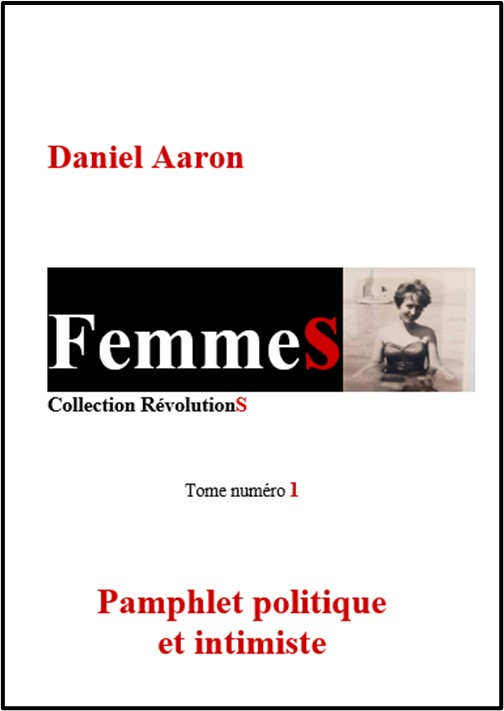
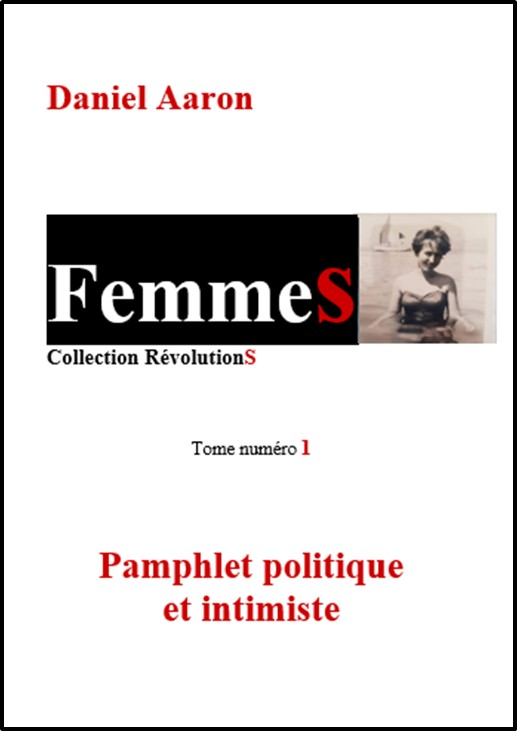
Livres

diff --git a/style.css b/style.css
@@ -365,7 +365,7 @@ h5 {
     flex-direction: row;
     justify-content: center;
     align-items: center;
-    padding-top: 300px;
+    padding-top: 360px;
     padding-bottom: 220px;
     /* position:relative; */
     height: 300px;
